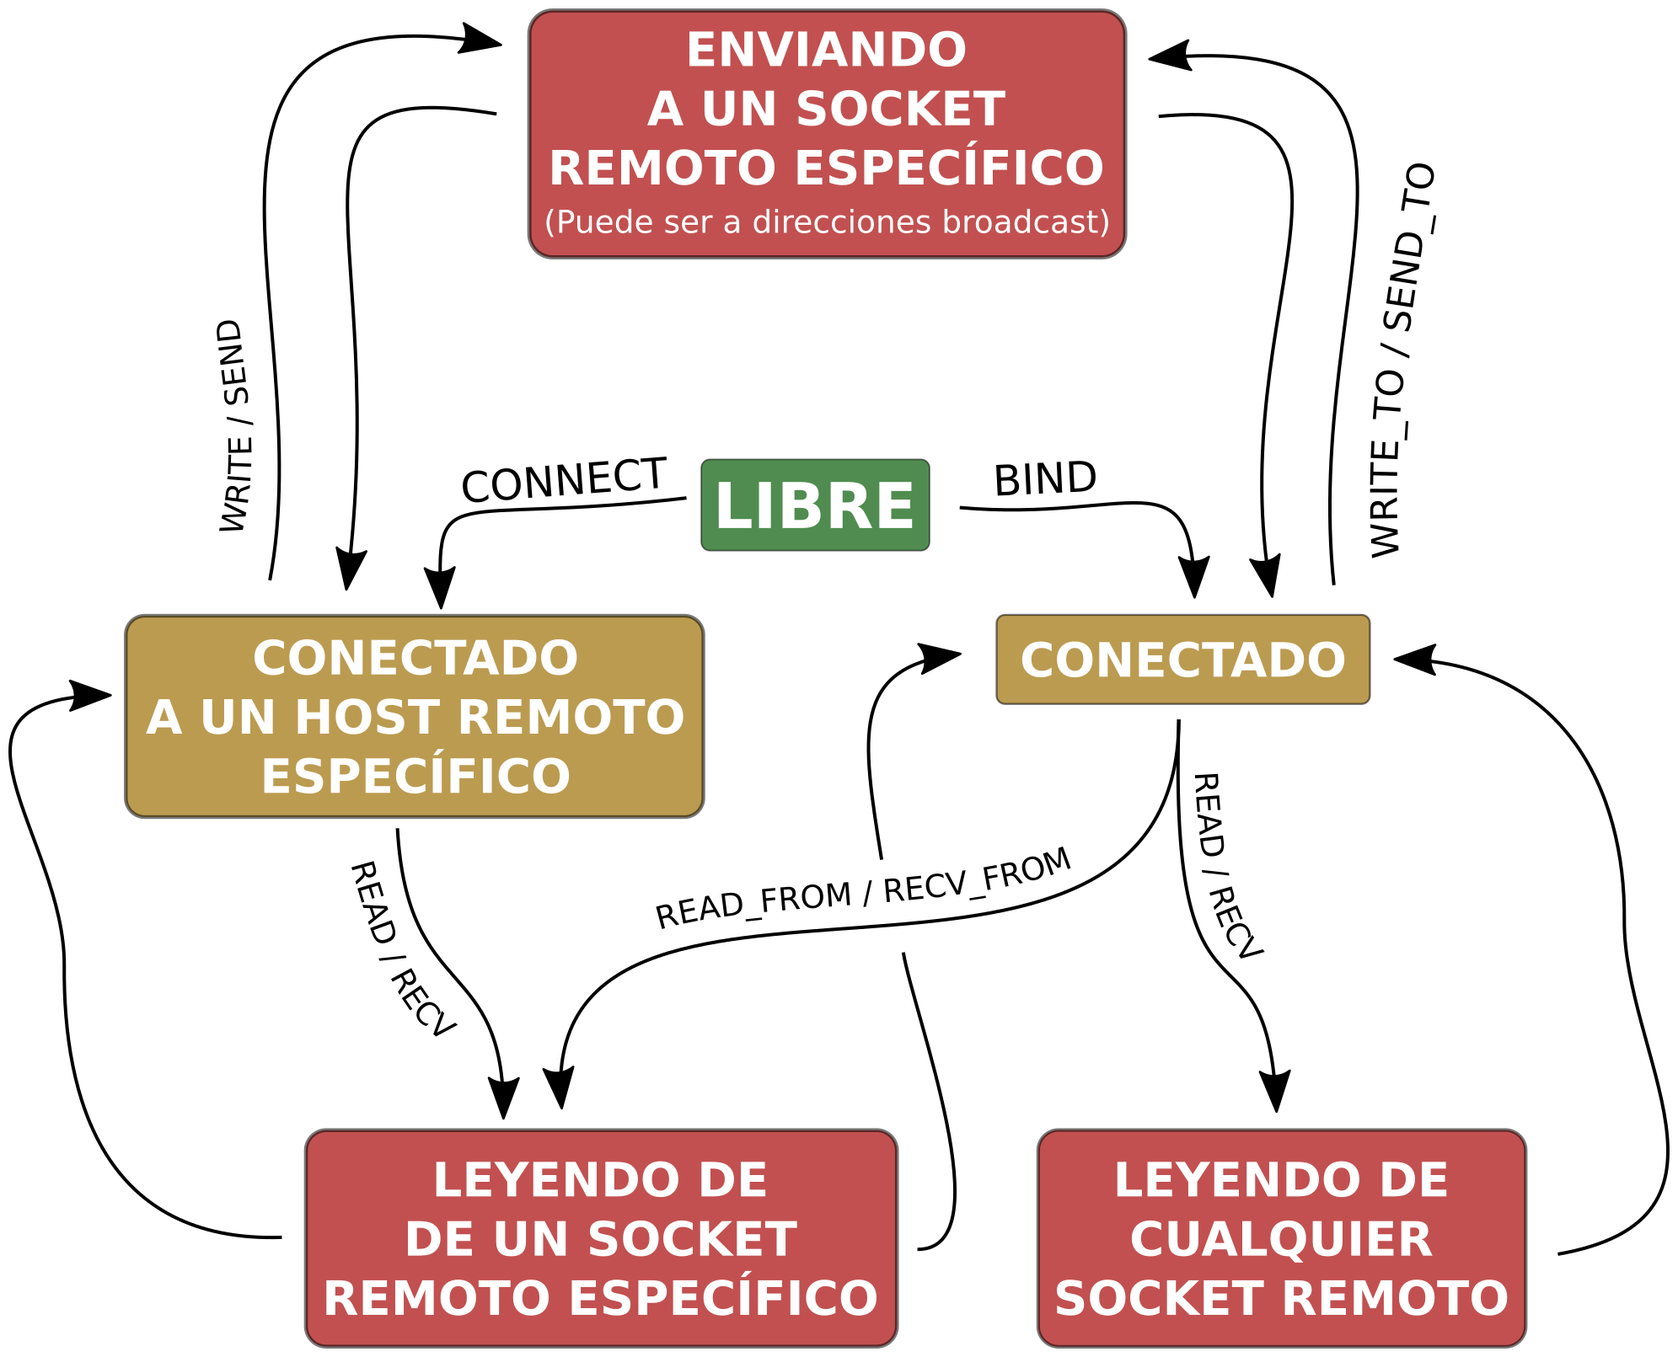
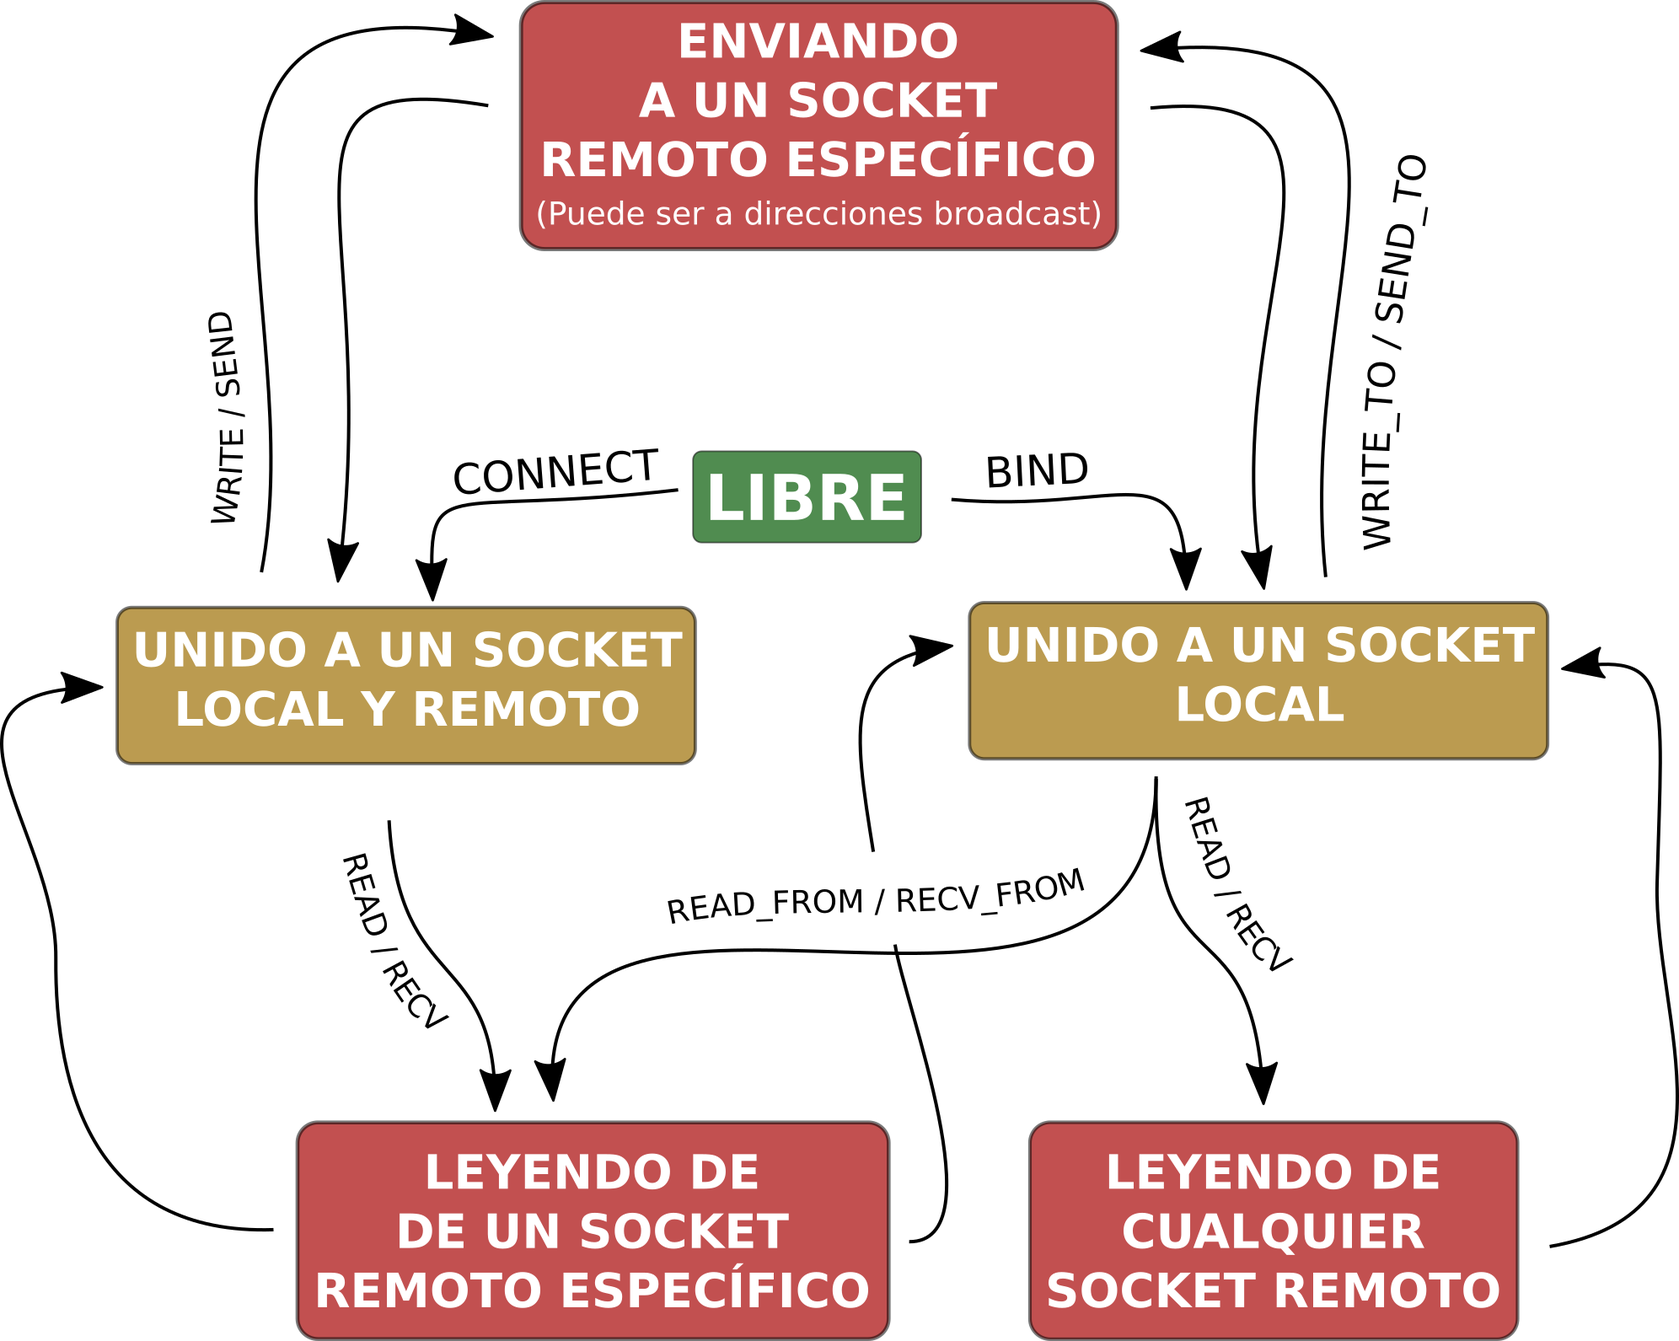
finished Mati's corrections

diff --git a/informe/informe.tex b/informe/informe.tex
@@ -594,7 +594,7 @@ Cuando una consulta llega a un servidor iterativo, en caso de ser autoritativo p
 El protocolo UDP implementado cuenta con los siguientes tipos de datos, los cuales tienen documentación en formato Doxygen en el código y que se encuentra adjunta en el apéndice de este documento:
 
 \begin{itemize}
-\item udp::Segment: Representa un segmento de datos para ser enviado por la red, el mismo cuenta con pseudoheader, header y payload como se muestra en la Figura \ref{figure: udp segment}.
+\item udp::Segment: Representa un segmento de datos para ser enviado por la red, el mismo cuenta con pseudoheader, header y payload como se muestra en la Figura \ref{figure: udp segment}. Esta estructura de datos sigue el esquema marcado en RFC 768 \cite{postel1980user}.
 \item udp::Control: Es la estructura de datos utilizada para la comunicación con la capa de aplicación, en la misma se especifica que comando envía la aplicación a la capa UDP. Toda la información a enviar llega al protocolo UDP a través de esta estructura.
 \end{itemize}
 
@@ -609,7 +609,7 @@ El protocolo UDP implementado cuenta con los siguientes tipos de datos, los cual
 
 El protocolo UDP no cuenta con ningún sistema de detección de fallas en la entrega de los mensajes ya que el mismo está pensado para funcionar de forma que optimice la velocidad de entrega, para esto se basa en un mecanismo de mejor esfuerzo. Esto lo convierte en un buen protocolo cuando la eficiencia es un atributo clave. Por otro lado, dado que no controla que los mensajes lleguen o no a su destino, es necesario contar con otro mecanismo que detecte mensajes faltantes (aquellos que no llegaron a destino) o de lo contrario, debe permitirse la perdida de los mismos. Si bien no se realiza ningún esfuerzo por detectar si el mensaje llega o no a destino, UDP implementa checksum para detectar errores en la codificación del header del segmento, esto es implementado con la finalidad de no entregar mensajes a destinatarios incorrectos. Cuando un error es detectado en el header, el segment es directamente descartado\footnote{No se comprueba que el payload contenga errores en su codificación, por lo que el dato en si, podría llegar a destino con errores y nunca serían detectados por UDP.}.\\
 
-UDP funciona con sockets, los sockets son una combinación de IP y puerto que permiten enviar y entregar los mensajes a la aplicación correspondiente dentro del host de destino. De esta forma, para que un mensaje sea correctamente entregado, el host destino tiene que tener una aplicación que esté escuchando por el puerto al cual fue enviado el mensaje, si este no es el caso, el mensaje es simplemente descartado. Los sockets también cumplen el roll de evitar colisiones entre las aplicaciones ya que las mismas no pueden conectarse a un puerto mediante un socket si el puerto ya está siendo utilizado por otra aplicación, ya sea para enviar o recibir mensajes. La Figura \ref{figure: UPD state machine} muestra la máquina de estados del protocolo UDP implementado en este trabajo. \\
+UDP funciona con sockets, los sockets son una combinación de IP y puerto que permiten enviar y entregar los mensajes a la aplicación correspondiente dentro del host de destino. De esta forma, para que un mensaje sea correctamente entregado, el host destino tiene que tener una aplicación que esté escuchando por el puerto al cual fue enviado el mensaje, si este no es el caso, el mensaje es simplemente descartado. Los sockets también cumplen en este trabajo el roll de evitar colisiones entre las aplicaciones ya que las mismas no pueden unirse a un puerto mediante un socket si el puerto ya está siendo utilizado por otra aplicación, ya sea para enviar o recibir mensajes. Esta decisión de no permitir a dos aplicaciónes utilizar un mismo socket a la misma vez no es general de UDP y es más bien particular de esta implementación, futuros trabajos podrían implementar un protocolo sin este comportamiento. La Figura \ref{figure: UPD state machine} muestra la máquina de estados del protocolo UDP implementado en este trabajo. \\
 
 \begin{figure}[t]
     \centering
@@ -623,8 +623,8 @@ UDP funciona con sockets, los sockets son una combinación de IP y puerto que pe
 En el modelo implementado, los mensajes de Control contienen un campo \textit{request} que indica que operación se desea efectuar (connect, bind, read, etc) también es necesario enviar el IP y puerto del socket y el id de la aplicación, esta información es siempre requerida, ya sea para crear un nuevo socket atado a la aplicación del id o para corroborar que el socket existe y que corresponde a la aplicación que envía el mensaje de control. Dependiendo de la operación, es preciso completar correctamente los campos restantes. A continuación se explica cada operación y que campos requiere cada una: \\
 
 \begin{itemize}
-\item \textbf{CONNECT}: \textit{remote\_ip}, \textit{remote\_port}. De está forma UDP sabe que cada vez que esta aplicación envíe o reciba un paquete, el mismo será para o desde el socket con IP \textit{remote\_ip} y puerto \textit{remote\_port}. Esta operación falla si el socket ya existe.
-\item \textbf{BIND:} Esto permite a la aplicación enviar paquetes a distintos destinos, especificando siempre el socket del destino mediante los comandos WRITE\_TO y SEND\_TO y recibir mensajes de distintos orígenes mediante los comandos READ\_FROM, RECV\_FROM, REC o READ. Esta aplicación falla si el soquet ya existe.
+\item \textbf{CONNECT}: \textit{remote\_ip}, \textit{remote\_port}. De está forma UDP sabe que cada vez que esta aplicación envíe o reciba un paquete, el mismo será para o desde el socket remoto con IP \textit{remote\_ip} y puerto \textit{remote\_port}. Esta operación falla si el socket ya existe por lo explicado previamente. \textbf{Nota:} Este comando solo sirve (al igual que BIND), para unirse a un socket dentro del protocolo, pero no hay ningún tipo de conexión remota ni \textit{handshake} realizado ya que UDP es \textit{connectionless}.
+\item \textbf{BIND:} Esto permite a la aplicación enviar paquetes a distintos destinos, especificando siempre el socket del destino (socket remoto) mediante los comandos WRITE\_TO y SEND\_TO y recibir mensajes de distintos orígenes mediante los comandos READ\_FROM, RECV\_FROM, REC o READ. Esta aplicación falla si el soquet ya existe.
 \item \textbf{READ\_FROM / RECV\_FROM:} \textit{remote\_ip}, \textit{remote\_port}, estos campos son utilizados para saber que mensajes entrantes deben que ser aceptados y cuales no. Cuando este comando es recibido por UDP, el socket correspondiente es marcado como ``En espera de mensajes'' y el mismo se mantiene en ese estado hasta que llega un mensaje del host remoto indicado, en ese momento el mensaje es entregado y el socket vuelve al estado anterior. Este comando solo puede ser utilizado en un socket que está en estado \textit{BOUND}, o sea, un socket que fue previamente bindeado.
 \item \textbf{READ / RECV:} Es lo mismo que el item anterior pero con la diferencia de que no se especifica un socket remoto. Si el el soket local fue bindeado se aceptan todos los mensajes entrantes a este socket y si fue conectado se aceptan solo los mensajes del socket remoto indicado en el momento de la conexión.
 \item \textbf{WRITE\_TO / SEND\_TO:} Lo mismo que READ\_FROM / RECV\_FROM pero para enviar mensajes, con lo cual el campo \textit{packet} debe contener el paquete a enviar.
@@ -676,7 +676,7 @@ La Tabla \ref{table: parameters UDP} muestra los parámetros del modelo UDP en l
 
 \subsection{IP}
 
-El protocolo IP es el encargado del enrutamiento de los ip::Datagrams de un nodo (router, host) a otro con la finalidad de llegar al host destino. La estructura de datos ip::Datagram es la utilizada para encapsula los udp::Segments y cuenta con un campo \textit{header} de tipo ip::Header y un campo \textit{data} de tipo udp::Segment, la Figura \ref{figure: ip header} muestra la estructura del tipo de datos ip::Header.  \\
+El protocolo IP es el encargado del enrutamiento de los ip::Datagrams de un nodo (router, host) a otro con la finalidad de llegar al host destino. La estructura de datos ip::Datagram es la utilizada para encapsula los udp::Segments y cuenta con un campo \textit{header} de tipo ip::Header y un campo \textit{data} de tipo udp::Segment, la Figura \ref{figure: ip header} muestra la estructura del tipo de datos ip::Header. Tanto la estructura del ip::Header como los algoritmos implementados para el protocolo IP de este trabajo están basados en los protocolos explicados en \cite{routingtablemicrosoft} y \cite{routingprocessmicrosoft} \\
 
 \begin{figure}[!htb]
     \centering
@@ -685,15 +685,15 @@ El protocolo IP es el encargado del enrutamiento de los ip::Datagrams de un nodo
     \label{figure: ip header}
 \end{figure}
 
-El protocolo IP implementado en este trabajo funciona con UDP y se puede dividir en dos categorías:
+El protocolo IP implementado en este trabajo funciona con segmentos UDP pero puede muy facilmente ser extendido para aceptar segmentos de otros protocolos como por ejemplo TCP. El protocolo IP implementado en este trabajo se puede dividir en dos categorías:
 \begin{itemize}
 \item \textbf{Enrutamiento en un host:} Los hosts son los encargados de encapsular los udp::Segments provenientes de la capa superior (UDP) dentro de ip::Datagrams y enviarlos al router o host directamente conectado al mismo dependiendo de si el IP de destino corresponde a un un host de la misma subnet o a un host en otra subnet. Si un host recibe un ip::Datagram cuyo IP destino no corresponde con ningún IP del host, el ip::Datagram no es forwardeado a nadie y es descartado, en cambio si el IP corresponde con algún IP del host, el udp::Segment del ip::Datagram recibido es desencapsulado y entregado a la capa superior.
 \item \textbf{Enrutamiento en un router:} Los routers por el contrario no encapsulan udp::Segments ya que no existe capa de transporte en un router, los mismos se encargan de forwardear ip::Datagrams que llegan.
 \end{itemize}
 
-Si bien hay diferencia entre los hosts y los routers, el proceso de forwardear ip::Datagrams es el mismo para ambos, este proceso consiste en buscar el mejor \textit{nexthope} dentro de la ``routing table'' y enviar el ip::Datagram al mismo con la esperanza de que este sepa como entregar el mensaje al destino. \\
+Si bien hay diferencias entre los hosts y los routers, el proceso de forwardear ip::Datagrams es el mismo para ambos, este proceso consiste en buscar el mejor \textit{nexthope} dentro de la ``routing table'' y enviar el ip::Datagram al mismo con la esperanza de que este sepa como entregar el mensaje al destino. Es por esta igualdad, que se implemento una clase \textit{ip\_protocol} general que modela el comportamiento común entre el protocolo IP de un host y de un router y luego se extendió dicho modelo a dos modelos más especificos, uno para el protocolo IP de un host y otro para el modelo IP de un router.\\
 
-En este trabajo no se implementaron clases de direcciones IP A, B y C, por el contrario se implementó el mecanismo de \textit{subneting} mediante el uso de \textit{netmasks}, esto significa que se utiliza una máscara que indica cuantos bits de la izquierda del IP corresponden al network. La máscara utilizada es una dirección IP que tiene en los bits de la izquierda unos y en los bits de la derecha ceros, la cantidad de unos de la máscara determinan cuantos bits del IP deben ser considerados como network. \\
+En este trabajo no se implementaron clases de direcciones IP A, B y C, por el contrario se implementó el mecanismo de \textit{subneting} mediante el uso de \textit{netmasks}, esto significa que se utiliza una máscara que indica cuantos bits de la izquierda del IP corresponden al network. La máscara utilizada es una dirección IP que tiene en los bits de la izquierda unos y en los bits de la derecha ceros, la cantidad de unos de la máscara determinan cuantos bits del IP deben ser considerados como network. Más información sobre este mecanismo puede ser encontrado en la sección \textit{Subnetting and classless addressing} en el libro de la materia \cite[p.~220]{peterson2011computer}. \\
 
 La routing table contiene los siguientes campos:
 \begin{itemize}
@@ -740,9 +740,9 @@ Los parámetros del modelo IP en la IDE de PowerDEVS son los que muestra la Tabl
 
 \subsection{ARP}
 
-Si bien los IPs cuentan con una estructura jerárquica que permite describir la topología de la red y de esa forma agrupar a los hosts por networks, los mismos son asignados dinámicamente dependiendo de en donde está conectado el host. Por el contrario, las \textit{MAC addresses} son fijas, y cada dispositivo de red viene con una \textit{MAC address} de fábrica, la misma se supone que es única. Para poder enviar datos de un dispositivo a otro, es necesario primero conseguir su \textit{MAC address}, el protocolo ARP (\textit{Address Resolution Protocol}) es el encargado en este modelo para realizar este trabajo. \\
+Si bien los IPs cuentan con una estructura jerárquica que permite describir la topología de la red y de esa forma agrupar a los hosts por networks, los mismos son asignados dinámicamente dependiendo de en donde está conectado el host. Por el contrario, las \textit{MAC addresses} son fijas, y cada dispositivo de red viene con una \textit{MAC address} de fábrica, la misma se supone que es única. Para poder enviar datos de un dispositivo a otro, es necesario primero conseguir su \textit{MAC address}, el protocolo ARP (\textit{Address Resolution Protocol}) es el encargado en este modelo para realizar este trabajo. Más información sobre ARP pude ser encontrada en la sección \textit{Address Translation (ARP)} del libro de la materia \cite[p.~228]{peterson2011computer} y en el RFC 826 \cite{plummer1982ethernet}. Vale aclarar que este trabajo implementó una versión más cercana al libro de la materia.\\
 
-Los ip::Datagram que deben ser enviados entre dos nodos adyacentes de la red son encapsulados dentro de un link::Frame, el cual cuenta con la estructura mostrada en la Figura \ref{figure: frame structure}. \\
+Los ip::Datagram que deben ser enviados entre dos nodos adyacentes de la red son encapsulados dentro de un link::Frame, el cual cuenta con la estructura mostrada en la Figura \ref{figure: frame structure}. Esta estructura proviene del estandar para ethernet II. \\
 
 \begin{figure}[!htb]
     \centering
@@ -775,12 +775,12 @@ Podría suceder que durante el tiempo que transcurre entre que ARP envía el men
 \begin{figure}[!htb]
     \centering
     \includegraphics[width = 0.6\textwidth]{img/png/arp-packet.png}
-    \caption{Estructura de datos de un link::arp::Packet alineada a 4 bytes. \textbf{Nota:} las direcciones de hardware (\textit{MAC addresses}) son de 6 bytes y no de 4, esto no se muestra en la figura para mantener el orden de los campos.}
+    \caption{Estructura de datos de un link::arp::Packet alineada a 4 bytes. \textbf{Nota:} las direcciones de hardware (\textit{MAC addresses}) son de 6 bytes y no de 4, esto no se muestra en la figura para mantener el orden de los campos. Más información puede ser encontrado en el RFC 826 \cite{plummer1982ethernet}}
     \label{figure: arp packet}
 \end{figure}
 
 
-Un dispositivo puede tener varias interfaces y cada interfaz es un modelo \textit{Link} que implenta ARP y SWL. Este es el caso de los routers que cuentan con una interfaz por cada network al que están conectados. Cada interfaz cuanta con un IP y con una \textit{MAC address} y los pedidos de \textit{MAC address} que llegan a la interfaz son respondidos por el protocolo ARP dentro de la interfaz sin llegar a la capa de enrutamiento. De esta forma, un router puede ser accedido por los dispositivos de una red solo si ellos conocen el IP de la interfaz que está conectada a dicha red, en caso de que llegue un pedido de \textit{MAC address} para un IP de otra interfaz, el mismo es ignorado ya que las interfaces son independientes entre si. \\
+Un dispositivo puede tener varias interfaces físicas y cada interfaz es un modelo atómico distinto del protocolo\textit{Link} que implenta ARP y SWL. Este es el caso de los routers que cuentan con una interfaz por cada network al que están conectados. Cada interfaz cuanta con un IP y con una \textit{MAC address} y los pedidos de \textit{MAC address} que llegan a la interfaz son respondidos por el protocolo ARP dentro de la interfaz sin llegar a la capa de enrutamiento. De esta forma, un router puede ser accedido por los dispositivos de una red solo si ellos conocen el IP de la interfaz que está conectada a dicha red, en caso de que llegue un pedido de \textit{MAC address} para un IP de otra interfaz, el mismo es ignorado ya que las interfaces son independientes entre si. \\
 
 Tanto \textit{ARP} como \textit{SWP} (explicado más adelante) son protocolos de nivel 2 y es por eso que se encuentran ambos implementados dentro del modelo \textit{link}. La tabla \ref{table: parameters link} muestra los parámetros del modelo de \textit{link} en la IDE PowerDEVS. 
 
@@ -805,7 +805,7 @@ Tanto \textit{ARP} como \textit{SWP} (explicado más adelante) son protocolos de
 \newpage
 
 \subsection{Datagrams}
-El protocolo Datagrams es utilizado por los switches para forwardear mensajes. \\
+El protocolo Datagrams es utilizado por los switches para forwardear mensajes. El mismo está basado en la sección \textit{Datagrams} del libro de la materia \cite[p.~172]{peterson2011computer} \\
 
 En el modelo implementado, el envío de frames sucede mediante cables ethernet, y para evitar colisiones, un dispositivo puede estar conectado a muchos otros mediante el uso de switches. Aunque en la realidad los switches evitan gran parte de las colisiones, los mismos no evitan todas, ya que siguen existiendo las colisiones generadas entre los frames que se envían de cada punta del cable. Este tipo de colisiones no están consideradas y el modelo implementado se abstrae de ellas, dejándolo como posible trabajo futuro. \\
 
@@ -838,7 +838,7 @@ Tanto \textit{Datagrams} como \textit{SWP} (explicado más adelante) son protoco
 \label{table: parameters datagrams}
 \end{table*}
 
-\subsection{SWP}
+\subsection{SWP (Sliding Window Protocol)}
 
 Este protocolo es el utilizado en la capa $2$ y el mismo se encuentra tanto en el modelo \textit{link} como en el modelo \textit{switch}, de esta forma la comunicación de todos los dispositivos a nivel $2$ es realizada mediante \textit{SWP}.\\
 
@@ -972,7 +972,7 @@ En este escenario, el host 2 es el servidor local para la \textit{subnet} 1, el 
 \begin{figure}[!htb]
     \centering
     \includegraphics[width = 0.5\textwidth]{img/png/powerdevs/host.png}
-    \caption{Modelo PoderDEVS de un dispositivo Host con las capas \textit{DNS}, \textit{UDP}, \textit{IPv4} y \textit{Link}; Se pueden ver las conexiones realizadas entre cada una de las capas del moselo UDP/IP asi como el generador y el vertedero correspondientes al input y output de este modelo. Los puertos externos (Inport0 y outport0) permiten conectar el modelo dispositivo a otro dispositivo de la red para enviar los mensajes.}
+    \caption{Modelo PowerDEVS de un dispositivo Host con las capas \textit{DNS}, \textit{UDP}, \textit{IPv4} y \textit{Link}; Se pueden ver las conexiones realizadas entre cada una de las capas del moselo UDP/IP asi como el generador y el vertedero correspondientes al input y output de este modelo. Los puertos externos (Inport0 y outport0) permiten conectar el modelo dispositivo a otro dispositivo de la red para enviar los mensajes.}
     \label{figure: powerdevs host}
 \end{figure}
 

diff --git a/ip_protocol.h b/ip_protocol.h
@@ -3,7 +3,7 @@
 
 #include "template/layer.h"
 
-/* Documentation
+/* Related documentation
  *
  * https://www.iplocation.net/subnet-mask
  * distance-vector: RIP - peterson pag 243.
@@ -11,7 +11,7 @@
  * for a complete information about IPv4 header: https://en.wikipedia.org/wiki/IPv4
  * IPv4 routing documents
  * https://technet.microsoft.com/en-us/library/dd379495(v=ws.10).aspx // routing table
- * https://technet.microsoft.com/en-us/library/cc958831.aspx // routing algorithm used
+ * https://technet.microsoft.com/en-us/library/cc958831.aspx // used routing algorithm
  * https://developer.apple.com/library/content/documentation/NetworkingInternet/Conceptual/NetworkingConcepts/PacketRoutingandDelivery/PacketRoutingandDelivery.html
  * 
  */
